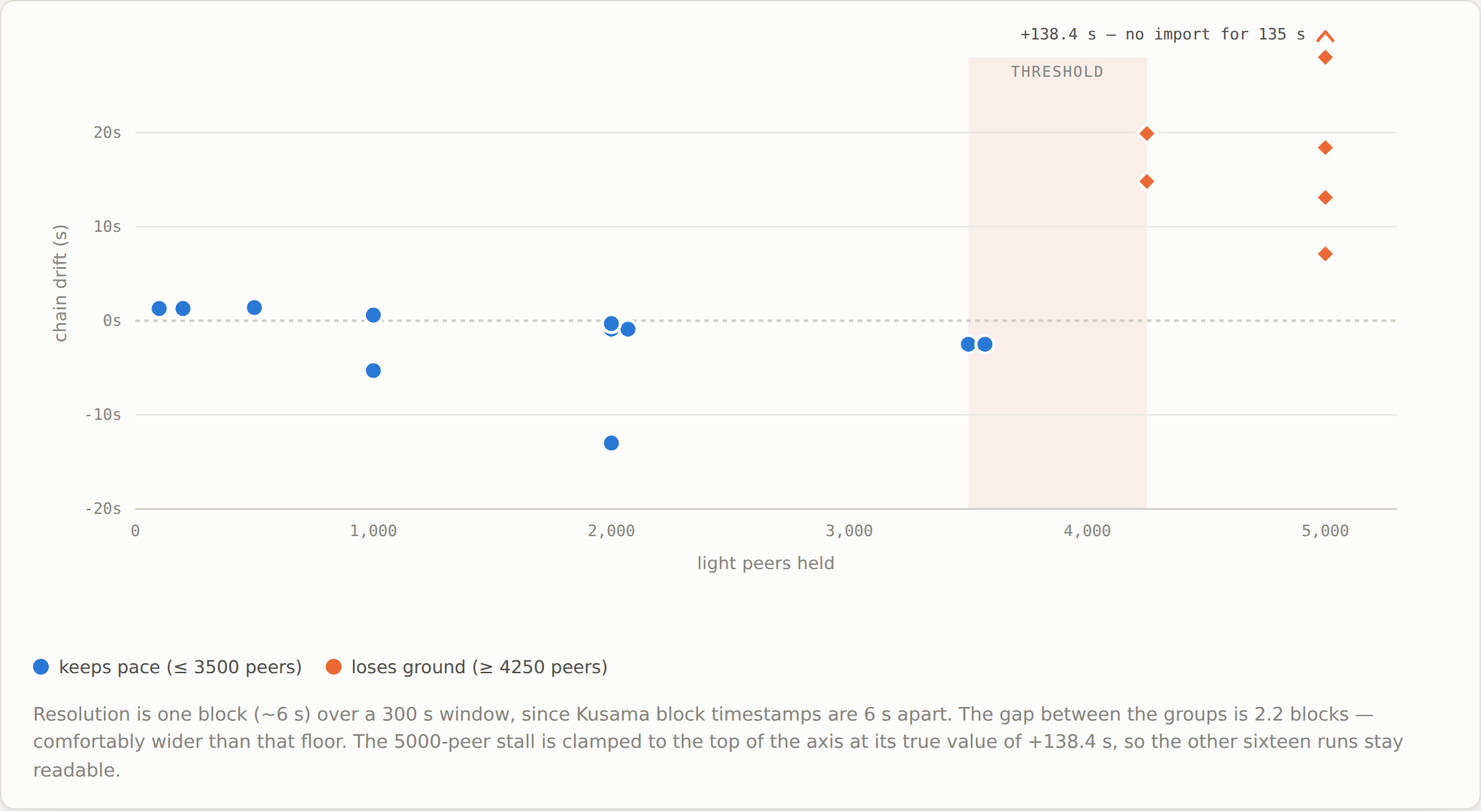
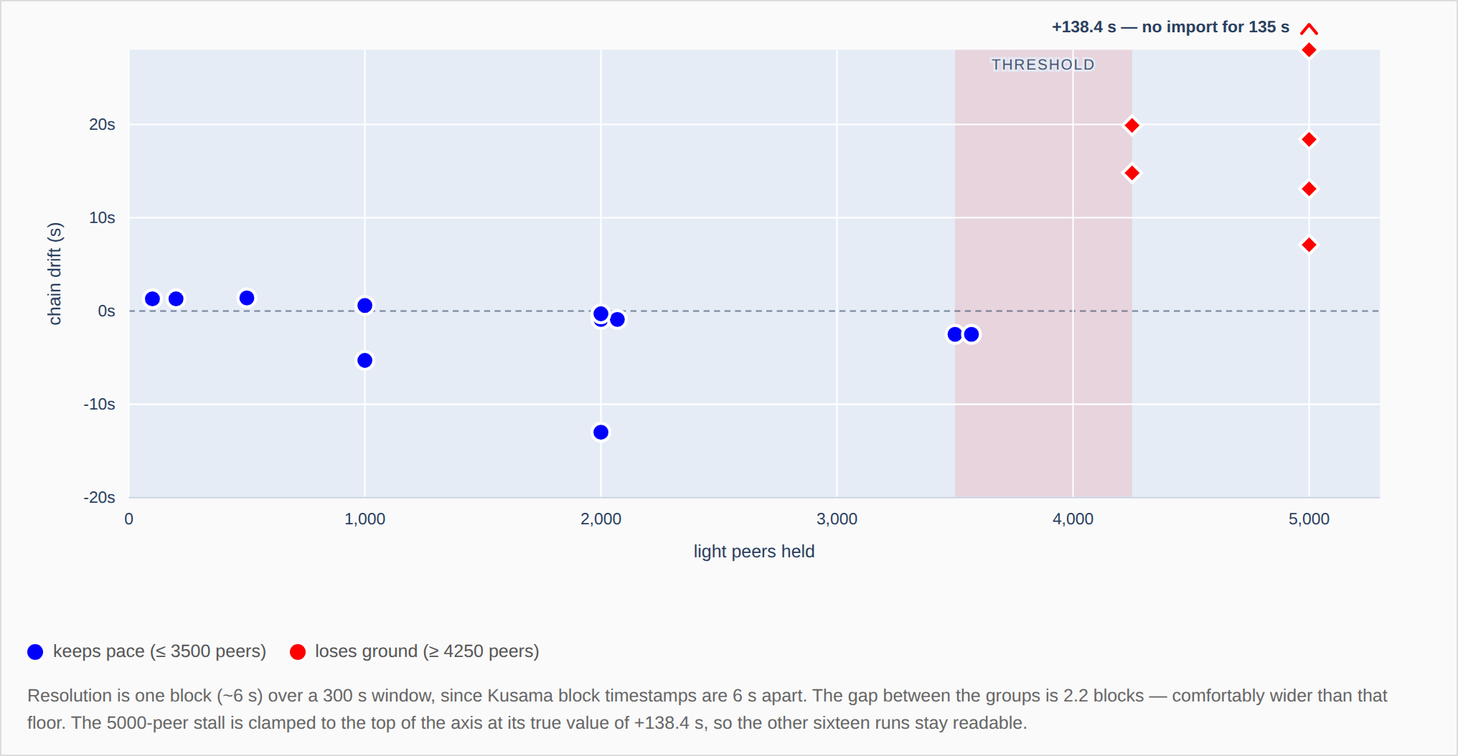
report: 2026-08-09T11:34Z

diff --git a/index.html b/index.html
@@ -4,180 +4,145 @@
 <style>
   :root {
     color-scheme: light;
-    --ground:      #f1f0ec;
-    --surface:     #fcfcfb;
-    --surface-2:   #f7f6f3;
-    --ink:         #0b0b0b;
-    --ink-2:       #52514e;
-    --ink-3:       #86847d;
-    --rule:        #e2e0d9;
-    --rule-firm:   #cfcdc4;
-    --s1:          #2a78d6;
-    --s2:          #eb6834;
-    --s3:          #1baf7a;
-    --band:        rgba(235,104,52,.09);
-    --floor:       rgba(130,128,120,.14);
-    --grid:        #eae8e2;
-    --shadow:      0 1px 2px rgba(0,0,0,.05), 0 8px 24px -16px rgba(0,0,0,.18);
-  }
-  @media (prefers-color-scheme: dark) {
-    :root:where(:not([data-theme="light"])) {
-      color-scheme: dark;
-      --ground:    #121211;
-      --surface:   #1a1a19;
-      --surface-2: #212120;
-      --ink:       #ffffff;
-      --ink-2:     #c3c2b7;
-      --ink-3:     #8a887e;
-      --rule:      #2c2c2a;
-      --rule-firm: #3d3d3a;
-      --s1:        #3987e5;
-      --s2:        #d95926;
-      --s3:        #199e70;
-      --band:      rgba(217,89,38,.13);
-      --floor:     rgba(160,158,148,.14);
-      --grid:      #262625;
-      --shadow:    0 1px 2px rgba(0,0,0,.4), 0 8px 24px -16px rgba(0,0,0,.7);
-    }
-  }
-  :root[data-theme="dark"] {
-    color-scheme: dark;
-    --ground:    #121211;
-    --surface:   #1a1a19;
-    --surface-2: #212120;
-    --ink:       #ffffff;
-    --ink-2:     #c3c2b7;
-    --ink-3:     #8a887e;
-    --rule:      #2c2c2a;
-    --rule-firm: #3d3d3a;
-    --s1:        #3987e5;
-    --s2:        #d95926;
-    --s3:        #199e70;
-    --band:      rgba(217,89,38,.13);
-    --floor:     rgba(160,158,148,.14);
-    --grid:      #262625;
-    --shadow:    0 1px 2px rgba(0,0,0,.4), 0 8px 24px -16px rgba(0,0,0,.7);
+    --ground:      #f5f5f5;
+    --surface:     #ffffff;
+    --surface-2:   #fafafa;
+    --ink:         #333333;
+    --ink-2:       #555555;
+    --ink-3:       #666666;
+    --rule:        #dddddd;
+    --rule-firm:   #C8D4E3;
+    --accent:      #007bff;
+    --accent-dark: #0056b3;
+    --s1:          #0000ff;
+    --s2:          #ff0000;
+    --s3:          #008000;
+    --band:        rgba(255,0,0,.10);
+    --floor:       rgba(42,63,95,.09);
+    --plot:        #E5ECF6;
+    --grid:        #ffffff;
+    --axis:        #2a3f5f;
   }
 
   body {
     margin: 0; background: var(--ground); color: var(--ink);
-    font-family: ui-sans-serif, system-ui, -apple-system, "Segoe UI", Roboto, sans-serif;
-    font-size: 16px; line-height: 1.6;
-    -webkit-font-smoothing: antialiased;
+    font-family: Arial, Helvetica, sans-serif;
+    font-size: 15px; line-height: 1.6;
   }
-  .wrap { max-width: 1080px; margin: 0 auto; padding: 56px 24px 96px; display: flex; flex-direction: column; gap: 44px; }
-  .prose { max-width: 68ch; }
+  .wrap { max-width: 1320px; margin: 20px auto; padding: 24px 32px 48px; background: var(--surface);
+    display: flex; flex-direction: column; gap: 30px; }
+  .prose { max-width: 80ch; }
 
-  h1 { font-size: clamp(28px, 4vw, 40px); line-height: 1.15; letter-spacing: -.022em; font-weight: 640; margin: 0; text-wrap: balance; }
-  h2 { font-size: 21px; letter-spacing: -.012em; font-weight: 640; margin: 0; text-wrap: balance; }
-  h3 { font-size: 15px; letter-spacing: -.006em; font-weight: 620; margin: 0; }
+  h1 { font-size: 28px; line-height: 1.2; font-weight: 700; margin: 0; color: var(--ink);
+    border-bottom: 3px solid var(--accent); padding-bottom: 10px; }
+  h2 { font-size: 20px; font-weight: 700; margin: 0; color: var(--ink-2);
+    border-bottom: 2px solid var(--rule); padding-bottom: 5px; }
+  h3 { font-size: 16px; font-weight: 400; margin: 0; color: var(--axis); }
   p  { margin: 0; color: var(--ink-2); }
-  p strong, li strong { color: var(--ink); font-weight: 620; }
-  a { color: var(--s1); text-underline-offset: 2px; }
+  p strong, li strong { color: var(--ink); font-weight: 700; }
+  a { color: var(--accent); text-decoration: none; }
+  a:hover { text-decoration: underline; }
 
   .eyebrow {
-    font-family: ui-monospace, SFMono-Regular, "SF Mono", Menlo, Consolas, monospace;
-    font-size: 11px; letter-spacing: .13em; text-transform: uppercase;
-    color: var(--ink-3); font-weight: 500;
+    font-size: 11px; letter-spacing: .1em; text-transform: uppercase;
+    color: var(--ink-3); font-weight: 700;
   }
-  .lede { font-size: 18px; line-height: 1.55; color: var(--ink-2); }
+  .lede { font-size: 16px; line-height: 1.55; color: var(--ink-2); }
 
-  section { display: flex; flex-direction: column; gap: 18px; }
+  section { display: flex; flex-direction: column; gap: 14px; }
   .head { display: flex; flex-direction: column; gap: 5px; }
 
   /* ---- verdict ---- */
   .verdict {
-    background: var(--surface); border: 1px solid var(--rule); border-radius: 10px;
-    padding: 22px 24px; display: flex; flex-direction: column; gap: 10px; box-shadow: var(--shadow);
+    background: #e7f3ff; border-left: 4px solid var(--accent);
+    padding: 15px 20px; display: flex; flex-direction: column; gap: 10px;
   }
   .verdict .top { display: flex; align-items: baseline; gap: 14px; flex-wrap: wrap; }
   .hero-num {
-    font-family: ui-monospace, SFMono-Regular, "SF Mono", Menlo, Consolas, monospace;
-    font-size: 46px; line-height: 1; font-weight: 600; letter-spacing: -.03em;
-    font-variant-numeric: tabular-nums; color: var(--s1);
+    font-size: 42px; line-height: 1; font-weight: 700; letter-spacing: -.02em;
+    font-variant-numeric: tabular-nums; color: var(--accent);
   }
 
   /* ---- kpi ---- */
   .kpis { display: grid; grid-template-columns: repeat(auto-fit, minmax(178px, 1fr)); gap: 12px; }
   .kpi {
-    background: var(--surface); border: 1px solid var(--rule); border-radius: 10px;
-    padding: 15px 16px; display: flex; flex-direction: column; gap: 5px;
+    background: var(--surface); border: 1px solid var(--rule);
+    padding: 12px 14px; display: flex; flex-direction: column; gap: 5px;
   }
-  .kpi .k { font-family: ui-monospace, SFMono-Regular, "SF Mono", Menlo, Consolas, monospace;
-    font-size: 10.5px; letter-spacing: .1em; text-transform: uppercase; color: var(--ink-3); }
-  .kpi .v { font-family: ui-monospace, SFMono-Regular, "SF Mono", Menlo, Consolas, monospace;
-    font-size: 25px; font-weight: 600; letter-spacing: -.02em; font-variant-numeric: tabular-nums; line-height: 1.1; }
+  .kpi .k { font-size: 10.5px; letter-spacing: .08em; text-transform: uppercase; color: var(--ink-3); font-weight: 700; }
+  .kpi .v { font-size: 24px; font-weight: 700; font-variant-numeric: tabular-nums; line-height: 1.1; color: var(--accent); }
   .kpi .n { font-size: 12.5px; color: var(--ink-3); line-height: 1.4; }
 
   /* ---- chart cards ---- */
   .card {
-    background: var(--surface); border: 1px solid var(--rule); border-radius: 10px;
-    padding: 20px 22px 16px; display: flex; flex-direction: column; gap: 14px; box-shadow: var(--shadow);
+    background: var(--surface-2); border: 1px solid var(--rule);
+    padding: 15px 18px 12px; display: flex; flex-direction: column; gap: 12px;
   }
   .card-head { display: flex; flex-direction: column; gap: 4px; }
-  .card-note { font-size: 13px; color: var(--ink-3); line-height: 1.5; }
+  .card-note { font-size: 12.5px; color: var(--ink-3); line-height: 1.5; }
   .chart-host { position: relative; }
   svg { display: block; width: 100%; height: auto; overflow: visible; }
   .grid-line { stroke: var(--grid); stroke-width: 1; }
   .axis-line { stroke: var(--rule-firm); stroke-width: 1; }
-  .zero-line { stroke: var(--rule-firm); stroke-width: 1.5; stroke-dasharray: 3 3; }
-  .tick { font-family: ui-monospace, SFMono-Regular, "SF Mono", Menlo, Consolas, monospace;
-    font-size: 10.5px; fill: var(--ink-3); font-variant-numeric: tabular-nums; }
-  .axis-title { font-size: 11.5px; fill: var(--ink-3); letter-spacing: .01em; }
-  .mark-label { font-family: ui-monospace, SFMono-Regular, "SF Mono", Menlo, Consolas, monospace;
-    font-size: 10.5px; fill: var(--ink-2); font-variant-numeric: tabular-nums; font-weight: 500; }
-  .band-label { font-family: ui-monospace, SFMono-Regular, "SF Mono", Menlo, Consolas, monospace;
-    font-size: 10px; fill: var(--ink-3); letter-spacing: .09em; text-transform: uppercase; }
+  .zero-line { stroke: var(--axis); stroke-width: 1; stroke-dasharray: 4 3; opacity: .55; }
+  .tick { font-size: 11px; fill: var(--axis); font-variant-numeric: tabular-nums; }
+  .axis-title { font-size: 12px; fill: var(--axis); }
+  .mark-label { font-size: 11px; fill: var(--axis); font-variant-numeric: tabular-nums; font-weight: 700; }
+  .band-label { font-size: 10px; fill: var(--axis); letter-spacing: .09em; text-transform: uppercase; opacity: .85;
+    paint-order: stroke; stroke: var(--plot); stroke-width: 3px; }
 
   .legend { display: flex; flex-wrap: wrap; gap: 16px; align-items: center; }
   .lg { display: inline-flex; align-items: center; gap: 7px; font-size: 12.5px; color: var(--ink-2); }
   .sw { width: 11px; height: 11px; border-radius: 50%; flex: none; }
-  .sw.sq { border-radius: 2px; width: 14px; height: 4px; }
+  .sw.sq { border-radius: 0; width: 16px; height: 3px; }
+  .sw.dash { background: none !important; border-top: 3px dashed var(--sw-c, #999); height: 0; }
 
   .tip {
     position: absolute; pointer-events: none; opacity: 0; transition: opacity .1s;
-    background: var(--ink); color: var(--ground); padding: 7px 10px; border-radius: 6px;
+    background: #2a3f5f; color: #fff; padding: 7px 10px; border-radius: 4px;
     font-size: 12px; line-height: 1.45; white-space: nowrap; z-index: 5;
-    font-family: ui-monospace, SFMono-Regular, "SF Mono", Menlo, Consolas, monospace;
     font-variant-numeric: tabular-nums; box-shadow: 0 4px 14px rgba(0,0,0,.22);
   }
   .tip.on { opacity: 1; }
-  .tip b { font-weight: 600; }
+  .tip b { font-weight: 700; }
 
   .two { display: grid; grid-template-columns: repeat(auto-fit, minmax(300px, 1fr)); gap: 16px; }
 
-  /* ---- table ---- */
-  details { background: var(--surface); border: 1px solid var(--rule); border-radius: 10px; overflow: hidden; }
-  summary { padding: 15px 20px; cursor: pointer; font-weight: 600; font-size: 14.5px; list-style: none;
-    display: flex; align-items: center; gap: 9px; }
+  /* ---- collapsibles & tables ---- */
+  details { background: var(--surface); }
+  summary { padding: 10px 15px; cursor: pointer; font-weight: 700; font-size: 14px; list-style: none;
+    display: flex; align-items: center; gap: 9px; background: var(--accent); color: #fff; border-radius: 4px;
+    user-select: none; }
+  summary:hover { background: var(--accent-dark); }
   summary::-webkit-details-marker { display: none; }
-  summary::before { content: "›"; font-family: ui-monospace, monospace; font-size: 17px; color: var(--ink-3);
-    transition: transform .15s; display: inline-block; }
+  summary::before { content: "\25B6"; font-size: 11px; transition: transform .15s; display: inline-block; }
   details[open] summary::before { transform: rotate(90deg); }
-  summary:focus-visible { outline: 2px solid var(--s1); outline-offset: -2px; }
-  .table-scroll { overflow-x: auto; border-top: 1px solid var(--rule); }
-  table { border-collapse: collapse; width: 100%; font-size: 13px;
-    font-family: ui-monospace, SFMono-Regular, "SF Mono", Menlo, Consolas, monospace;
-    font-variant-numeric: tabular-nums; }
-  th, td { padding: 8px 14px; text-align: right; white-space: nowrap; border-bottom: 1px solid var(--rule); }
-  th { font-size: 10.5px; letter-spacing: .07em; text-transform: uppercase; color: var(--ink-3);
-    font-weight: 500; position: sticky; top: 0; background: var(--surface-2); }
+  details[open] summary { border-radius: 4px 4px 0 0; }
+  summary:focus-visible { outline: 2px solid var(--accent-dark); outline-offset: -2px; }
+  details > *:not(summary) { border: 1px solid var(--rule); border-top: none; }
+  details > .table-scroll + .card-note { margin-top: 0; }
+  .table-scroll { overflow-x: auto; }
+  table { border-collapse: collapse; width: 100%; font-size: 13px; font-variant-numeric: tabular-nums; }
+  th, td { padding: 8px 12px; text-align: right; white-space: nowrap; border-bottom: 1px solid var(--rule); }
+  th { font-size: 12px; color: #fff; background: var(--accent); font-weight: 700;
+    position: sticky; top: 0; }
   th:first-child, td:first-child { text-align: left; }
+  tbody tr:nth-child(even) { background: #f9f9f9; }
   tbody tr:last-child td { border-bottom: none; }
-  td.flag { color: var(--s2); font-weight: 600; }
+  td.flag { color: #c82333; font-weight: 700; }
   .pill { display: inline-block; padding: 1px 7px; border-radius: 100px; font-size: 10.5px;
-    letter-spacing: .04em; font-weight: 600; }
-  .pill.ok { background: color-mix(in srgb, var(--s1) 15%, transparent); color: var(--s1); }
-  .pill.bad { background: color-mix(in srgb, var(--s2) 17%, transparent); color: var(--s2); }
+    letter-spacing: .04em; font-weight: 700; }
+  .pill.ok { background: #e7f3ff; color: var(--accent-dark); }
+  .pill.bad { background: #fdecea; color: #c82333; }
 
   ul.tight { margin: 0; padding-left: 20px; color: var(--ink-2); display: flex; flex-direction: column; gap: 7px; }
   ul.tight li::marker { color: var(--ink-3); }
 
   code { font-family: ui-monospace, SFMono-Regular, "SF Mono", Menlo, Consolas, monospace;
-    font-size: .9em; background: var(--surface-2); border: 1px solid var(--rule);
-    padding: 1px 5px; border-radius: 4px; }
+    font-size: .9em; background: #f0f0f0; border: 1px solid var(--rule);
+    padding: 1px 5px; border-radius: 3px; }
 
-  footer { border-top: 1px solid var(--rule); padding-top: 22px; font-size: 13px; color: var(--ink-3); }
+  footer { border-top: 1px solid var(--rule); padding-top: 18px; font-size: 13px; color: var(--ink-3); }
 
   @media (prefers-reduced-motion: reduce) { * { transition: none !important; animation: none !important; } }
 </style>
@@ -377,7 +342,7 @@
 </div>
 
 <script>
-const D = {"peerRuns": [{"run": "light-100", "peers": 100, "drift": 1.3, "blocks": 48, "window": 295, "held": 100, "coverage": 100.0, "spread50": 1.3, "refused": 0, "evicted": 0, "rss": 1271, "cpu": 46, "fds": 1408, "finlag_mean": 2.9, "finlag_max": 4}, {"run": "light-200", "peers": 200, "drift": 1.3, "blocks": 49, "window": 295, "held": 200, "coverage": 100.0, "spread50": 2.2, "refused": 0, "evicted": 0, "rss": 1461, "cpu": 50, "fds": 1344, "finlag_mean": 2.9, "finlag_max": 5}, {"run": "light-500", "peers": 500, "drift": 1.4, "blocks": 46, "window": 295, "held": 500, "coverage": 100.0, "spread50": 5.4, "refused": 0, "evicted": 0, "rss": 1568, "cpu": 54, "fds": 1530, "finlag_mean": 2.9, "finlag_max": 4}, {"run": "light-1000-r1", "peers": 1000, "drift": 0.6, "blocks": 49, "window": 301, "held": 1000, "coverage": 100.0, "spread50": 10.0, "refused": 0, "evicted": 0, "rss": 1586, "cpu": 63, "fds": 2111, "finlag_mean": 2.9, "finlag_max": 4}, {"run": "light-1000-r2", "peers": 1000, "drift": -5.3, "blocks": 50, "window": 301, "held": 1000, "coverage": 100.0, "spread50": 10.1, "refused": 0, "evicted": 0, "rss": 1668, "cpu": 63, "fds": 2184, "finlag_mean": 3.0, "finlag_max": 5}, {"run": "light-2000-r1", "peers": 2000, "drift": -0.9, "blocks": 52, "window": 311, "held": 2000, "coverage": 100.0, "spread50": 19.3, "refused": 0, "evicted": 0, "rss": 1806, "cpu": 76, "fds": 3057, "finlag_mean": 3.8, "finlag_max": 5}, {"run": "light-2000-r2", "peers": 2000, "drift": -0.9, "blocks": 49, "window": 311, "held": 2000, "coverage": 100.0, "spread50": 20.0, "refused": 0, "evicted": 0, "rss": 1909, "cpu": 78, "fds": 3753, "finlag_mean": 3.0, "finlag_max": 5}, {"run": "light-2000-r3", "peers": 2000, "drift": -13.0, "blocks": 52, "window": 311, "held": 2000, "coverage": 100.0, "spread50": 20.2, "refused": 0, "evicted": 0, "rss": 1993, "cpu": 78, "fds": 3038, "finlag_mean": 2.9, "finlag_max": 4}, {"run": "light-2000-r4", "peers": 2000, "drift": -0.3, "blocks": 52, "window": 312, "held": 2000, "coverage": 100.0, "spread50": 18.7, "refused": 0, "evicted": 0, "rss": 2836, "cpu": 81, "fds": 3319, "finlag_mean": 3.1, "finlag_max": 5}, {"run": "light-3500-r1", "peers": 3500, "drift": -2.5, "blocks": 55, "window": 327, "held": 3500, "coverage": 100.0, "spread50": 33.0, "refused": 0, "evicted": 0, "rss": 2424, "cpu": 94, "fds": 5675, "finlag_mean": 3.0, "finlag_max": 5}, {"run": "light-3500-r2", "peers": 3500, "drift": -2.5, "blocks": 53, "window": 327, "held": 3500, "coverage": 100.0, "spread50": 32.6, "refused": 0, "evicted": 0, "rss": 2766, "cpu": 99, "fds": 5795, "finlag_mean": 3.3, "finlag_max": 5}, {"run": "light-4250-r1", "peers": 4250, "drift": 14.8, "blocks": 53, "window": 333, "held": 4250, "coverage": 100.0, "spread50": 32.7, "refused": 0, "evicted": 0, "rss": 2636, "cpu": 102, "fds": 5402, "finlag_mean": 1.3, "finlag_max": 3}, {"run": "light-4250-r2", "peers": 4250, "drift": 19.9, "blocks": 49, "window": 338, "held": 4250, "coverage": 100.0, "spread50": 33.1, "refused": 0, "evicted": 0, "rss": 2660, "cpu": 101, "fds": 5553, "finlag_mean": 1.5, "finlag_max": 4}, {"run": "light-5000-r1", "peers": 5000, "drift": 138.4, "blocks": 32, "window": 342, "held": 5000, "coverage": 100.0, "spread50": 38.2, "refused": 0, "evicted": 0, "rss": 2255, "cpu": 104, "fds": 6220, "finlag_mean": 1.1, "finlag_max": 4}, {"run": "light-5000-r2", "peers": 5000, "drift": 18.4, "blocks": 52, "window": 342, "held": 5000, "coverage": 100.0, "spread50": 36.4, "refused": 0, "evicted": 0, "rss": 2422, "cpu": 105, "fds": 6202, "finlag_mean": 1.4, "finlag_max": 3}, {"run": "light-5000-r3", "peers": 5000, "drift": 7.1, "blocks": 53, "window": 343, "held": 5000, "coverage": 100.0, "spread50": 36.4, "refused": 0, "evicted": 0, "rss": 2404, "cpu": 104, "fds": 6190, "finlag_mean": 1.3, "finlag_max": 3}, {"run": "light-5000-r4", "peers": 5000, "drift": 13.1, "blocks": 54, "window": 343, "held": 5000, "coverage": 100.0, "spread50": 34.8, "refused": 0, "evicted": 0, "rss": 2863, "cpu": 111, "fds": 6206, "finlag_mean": 1.8, "finlag_max": 4}], "traces": {"peers-6h": [[0, 0.0], [603, -3.0], [1207, -5.0], [1811, -1.0], [2415, -3.0], [3019, 1.0], [3623, -1.0]], "soak-6h": [[0, 0.0], [603, 3.0], [1206, 6.0], [1809, 3.0], [2412, 6.0], [3015, 3.0], [3618, 6.0], [4221, 3.0], [4824, -0.0], [5427, 3.0], [6030, 0.0], [6633, 3.0], [7237, 7.0], [7840, 4.0], [8443, 7.0], [9046, 4.0], [9649, 7.0], [10252, 4.0], [10855, 1.0], [11458, 4.0], [12061, 1.0], [12664, 4.0], [13267, 1.0], [13870, 4.0], [14474, 8.0], [15077, 5.0], [15680, 8.0], [16283, 5.0], [16886, 2.0], [17489, 5.0], [18092, 2.0], [18696, 0.0], [19300, 4.0], [19904, 8.0], [20507, 5.0], [21111, 3.0]], "soak-12h": [[0, 0.0], [603, 3.0], [1206, 0.0], [1809, 3.0], [2412, -0.0], [3015, -3.0], [3618, 0.0], [4221, -3.0], [4824, 0.0], [5427, 3.0], [6030, 0.0], [6633, 3.0], [7236, 0.0], [7839, 3.0], [8442, 0.0], [9045, -3.0], [9648, 0.0], [10251, -3.0], [10854, 0.0], [11457, -3.0], [12060, 0.0], [12664, 4.0], [13267, 1.0], [13870, 4.0], [14473, 1.0], [15076, -2.0], [15679, 1.0], [16282, -2.0], [16885, 1.0], [17488, 4.0], [18091, -5.0], [18695, -1.0], [19298, 2.0], [19901, 5.0], [20504, 2.0], [21107, -1.0], [21710, 2.0], [22313, -1.0], [22916, 2.0], [23519, -1.0], [24123, -3.0], [24726, -0.0], [25329, 3.0], [25932, -0.0], [26535, 3.0], [27138, -0.0], [27741, 3.0], [28344, 0.0], [28947, -3.0], [29550, -0.0], [30153, -3.0], [30756, 0.0], [31359, -3.0], [31963, 1.0], [32566, 4.0], [33169, 1.0], [33772, 4.0], [34375, 1.0], [34978, -2.0], [35581, 1.0], [36184, -2.0], [36787, 1.0], [37390, -2.0], [37993, 1.0], [38596, -2.0], [39199, 1.0], [39802, 4.0], [40406, 2.0], [41010, 0.0], [41614, -2.0], [42218, 2.0], [42822, 0.0]]}, "rss": {"peers-6h": [[0, 6523], [603, 6728], [1207, 6755], [1811, 6795], [2415, 6845], [3019, 6819], [3623, 6960]], "soak-6h": [[0, 3748], [603, 4101], [1206, 4310], [1809, 4336], [2412, 4452], [3015, 4503], [3618, 4653], [4221, 4788], [4824, 4861], [5427, 4961], [6030, 5034], [6633, 5156], [7237, 5276], [7840, 4815], [8443, 4976], [9046, 5050], [9649, 5156], [10252, 5209], [10855, 5259], [11458, 5391], [12061, 5437], [12664, 5491], [13267, 5559], [13870, 5609], [14474, 5663], [15077, 5701], [15680, 5781], [16283, 5732], [16886, 5841], [17489, 5856], [18092, 5565], [18696, 5120], [19300, 5133], [19904, 5123], [20507, 5070], [21111, 5074]], "soak-12h": [[0, 4805], [603, 5182], [1206, 5342], [1809, 5356], [2412, 5413], [3015, 5491], [3618, 5545], [4221, 5540], [4824, 5622], [5427, 5657], [6030, 5840], [6633, 5897], [7236, 5510], [7839, 5537], [8442, 5645], [9045, 5647], [9648, 5690], [10251, 5828], [10854, 5888], [11457, 5982], [12060, 6042], [12664, 6205], [13267, 6205], [13870, 6264], [14473, 6326], [15076, 6494], [15679, 6500], [16282, 6638], [16885, 6793], [17488, 6666], [18091, 6892], [18695, 6528], [19298, 6512], [19901, 6618], [20504, 6662], [21107, 6698], [21710, 6769], [22313, 6844], [22916, 6793], [23519, 6939], [24123, 6974], [24726, 6987], [25329, 7094], [25932, 7096], [26535, 7116], [27138, 7129], [27741, 7182], [28344, 7262], [28947, 7135], [29550, 6754], [30153, 6745], [30756, 6749], [31359, 6834], [31963, 6890], [32566, 6778], [33169, 6879], [33772, 6908], [34375, 6886], [34978, 7046], [35581, 7008], [36184, 7041], [36787, 7165], [37390, 7153], [37993, 7185], [38596, 7313], [39199, 7352], [39802, 7059], [40406, 6599], [41010, 6663], [41614, 6760], [42218, 6869], [42822, 6910]]}, "cpu": {"peers-6h": [[5, 102], [608, 86], [1212, 86], [1816, 68], [2420, 67], [3024, 77], [3628, 76]], "soak-6h": [[5, 108], [608, 476], [1211, 477], [1814, 464], [2417, 472], [3020, 473], [3623, 493], [4226, 473], [4829, 460], [5433, 470], [6036, 469], [6639, 463], [7242, 476], [7845, 467], [8448, 504], [9051, 468], [9654, 470], [10257, 483], [10860, 486], [11463, 466], [12066, 481], [12670, 472], [13273, 474], [13876, 474], [14479, 476], [15082, 472], [15685, 465], [16288, 492], [16891, 492], [17494, 472], [18097, 63], [18701, 77], [19305, 74], [19909, 88], [20513, 77], [21117, 60]], "soak-12h": [[5, 104], [608, 468], [1211, 472], [1814, 472], [2417, 464], [3020, 476], [3623, 481], [4226, 470], [4829, 465], [5432, 489], [6035, 483], [6638, 477], [7241, 478], [7844, 474], [8447, 473], [9050, 473], [9653, 477], [10256, 465], [10859, 482], [11462, 490], [12066, 470], [12669, 473], [13272, 472], [13875, 469], [14478, 481], [15081, 474], [15684, 466], [16287, 470], [16890, 470], [17493, 481], [18097, 466], [18700, 477], [19303, 476], [19906, 470], [20509, 469], [21112, 498], [21715, 476], [22318, 474], [22921, 468], [23525, 485], [24128, 479], [24731, 476], [25334, 485], [25937, 465], [26540, 471], [27143, 471], [27746, 474], [28349, 484], [28952, 497], [29555, 483], [30158, 487], [30761, 510], [31365, 470], [31968, 463], [32571, 469], [33174, 460], [33777, 469], [34380, 468], [34983, 464], [35586, 460], [36189, 479], [36792, 466], [37395, 475], [37998, 464], [38601, 462], [39204, 458], [39808, 64], [40411, 64], [41015, 75], [41619, 79], [42223, 82], [42827, 52]]}, "mixRuns": [{"run": "rep-base-1", "kind": "base", "i": 1, "drift": 0.0, "cpu": 85}, {"run": "rep-mix-1", "kind": "mix", "i": 1, "drift": 5.7, "cpu": 421}, {"run": "rep-base-2", "kind": "base", "i": 2, "drift": -0.1, "cpu": 88}, {"run": "rep-mix-2", "kind": "mix", "i": 2, "drift": -0.4, "cpu": 423}, {"run": "rep-base-3", "kind": "base", "i": 3, "drift": 0.1, "cpu": 87}, {"run": "rep-mix-3", "kind": "mix", "i": 3, "drift": -0.3, "cpu": 419}, {"run": "rep-base-4", "kind": "base", "i": 4, "drift": 5.9, "cpu": 84}, {"run": "rep-mix-4", "kind": "mix", "i": 4, "drift": -0.3, "cpu": 417}, {"run": "rep-base-5", "kind": "base", "i": 5, "drift": 0.1, "cpu": 86}, {"run": "rep-mix-5", "kind": "mix", "i": 5, "drift": 5.7, "cpu": 417}, {"run": "rep-base-6", "kind": "base", "i": 6, "drift": 6.0, "cpu": 86}, {"run": "rep-mix-6", "kind": "mix", "i": 6, "drift": -6.3, "cpu": 419}], "longRuns": [{"run": "peers-6h", "label": "6 h", "load": "peers only", "drift": -1.0, "hours": 1.13, "cpu": 80, "rss0": 6523, "rssMax": 6963}, {"run": "soak-6h", "label": "6 h", "load": "peers + serving mix", "drift": 1.5, "hours": 6.01, "cpu": 408, "rss0": 3748, "rssMax": 5974}, {"run": "soak-12h", "label": "12 h", "load": "peers + serving mix", "drift": -0.6, "hours": 12.0, "cpu": 442, "rss0": 4805, "rssMax": 7470}]};
+const D = {"peerRuns": [{"run": "light-100", "peers": 100, "drift": 1.3, "blocks": 48, "window": 295, "held": 100, "coverage": 100.0, "spread50": 1.3, "refused": 0, "evicted": 0, "rss": 1271, "cpu": 46, "fds": 1408, "finlag_mean": 2.9, "finlag_max": 4}, {"run": "light-200", "peers": 200, "drift": 1.3, "blocks": 49, "window": 295, "held": 200, "coverage": 100.0, "spread50": 2.2, "refused": 0, "evicted": 0, "rss": 1461, "cpu": 50, "fds": 1344, "finlag_mean": 2.9, "finlag_max": 5}, {"run": "light-500", "peers": 500, "drift": 1.4, "blocks": 46, "window": 295, "held": 500, "coverage": 100.0, "spread50": 5.4, "refused": 0, "evicted": 0, "rss": 1568, "cpu": 54, "fds": 1530, "finlag_mean": 2.9, "finlag_max": 4}, {"run": "light-1000-r1", "peers": 1000, "drift": 0.6, "blocks": 49, "window": 301, "held": 1000, "coverage": 100.0, "spread50": 10.0, "refused": 0, "evicted": 0, "rss": 1586, "cpu": 63, "fds": 2111, "finlag_mean": 2.9, "finlag_max": 4}, {"run": "light-1000-r2", "peers": 1000, "drift": -5.3, "blocks": 50, "window": 301, "held": 1000, "coverage": 100.0, "spread50": 10.1, "refused": 0, "evicted": 0, "rss": 1668, "cpu": 63, "fds": 2184, "finlag_mean": 3.0, "finlag_max": 5}, {"run": "light-2000-r1", "peers": 2000, "drift": -0.9, "blocks": 52, "window": 311, "held": 2000, "coverage": 100.0, "spread50": 19.3, "refused": 0, "evicted": 0, "rss": 1806, "cpu": 76, "fds": 3057, "finlag_mean": 3.8, "finlag_max": 5}, {"run": "light-2000-r2", "peers": 2000, "drift": -0.9, "blocks": 49, "window": 311, "held": 2000, "coverage": 100.0, "spread50": 20.0, "refused": 0, "evicted": 0, "rss": 1909, "cpu": 78, "fds": 3753, "finlag_mean": 3.0, "finlag_max": 5}, {"run": "light-2000-r3", "peers": 2000, "drift": -13.0, "blocks": 52, "window": 311, "held": 2000, "coverage": 100.0, "spread50": 20.2, "refused": 0, "evicted": 0, "rss": 1993, "cpu": 78, "fds": 3038, "finlag_mean": 2.9, "finlag_max": 4}, {"run": "light-2000-r4", "peers": 2000, "drift": -0.3, "blocks": 52, "window": 312, "held": 2000, "coverage": 100.0, "spread50": 18.7, "refused": 0, "evicted": 0, "rss": 2836, "cpu": 81, "fds": 3319, "finlag_mean": 3.1, "finlag_max": 5}, {"run": "light-3500-r1", "peers": 3500, "drift": -2.5, "blocks": 55, "window": 327, "held": 3500, "coverage": 100.0, "spread50": 33.0, "refused": 0, "evicted": 0, "rss": 2424, "cpu": 94, "fds": 5675, "finlag_mean": 3.0, "finlag_max": 5}, {"run": "light-3500-r2", "peers": 3500, "drift": -2.5, "blocks": 53, "window": 327, "held": 3500, "coverage": 100.0, "spread50": 32.6, "refused": 0, "evicted": 0, "rss": 2766, "cpu": 99, "fds": 5795, "finlag_mean": 3.3, "finlag_max": 5}, {"run": "light-4250-r1", "peers": 4250, "drift": 14.8, "blocks": 53, "window": 333, "held": 4250, "coverage": 100.0, "spread50": 32.7, "refused": 0, "evicted": 0, "rss": 2636, "cpu": 102, "fds": 5402, "finlag_mean": 1.3, "finlag_max": 3}, {"run": "light-4250-r2", "peers": 4250, "drift": 19.9, "blocks": 49, "window": 338, "held": 4250, "coverage": 100.0, "spread50": 33.1, "refused": 0, "evicted": 0, "rss": 2660, "cpu": 101, "fds": 5553, "finlag_mean": 1.5, "finlag_max": 4}, {"run": "light-5000-r1", "peers": 5000, "drift": 138.4, "blocks": 32, "window": 342, "held": 5000, "coverage": 100.0, "spread50": 38.2, "refused": 0, "evicted": 0, "rss": 2255, "cpu": 104, "fds": 6220, "finlag_mean": 1.1, "finlag_max": 4}, {"run": "light-5000-r2", "peers": 5000, "drift": 18.4, "blocks": 52, "window": 342, "held": 5000, "coverage": 100.0, "spread50": 36.4, "refused": 0, "evicted": 0, "rss": 2422, "cpu": 105, "fds": 6202, "finlag_mean": 1.4, "finlag_max": 3}, {"run": "light-5000-r3", "peers": 5000, "drift": 7.1, "blocks": 53, "window": 343, "held": 5000, "coverage": 100.0, "spread50": 36.4, "refused": 0, "evicted": 0, "rss": 2404, "cpu": 104, "fds": 6190, "finlag_mean": 1.3, "finlag_max": 3}, {"run": "light-5000-r4", "peers": 5000, "drift": 13.1, "blocks": 54, "window": 343, "held": 5000, "coverage": 100.0, "spread50": 34.8, "refused": 0, "evicted": 0, "rss": 2863, "cpu": 111, "fds": 6206, "finlag_mean": 1.8, "finlag_max": 4}], "traces": {"peers-6h": [[0, 0.0], [603, -3.0], [1207, -5.0], [1811, -1.0], [2415, -3.0], [3019, 1.0], [3623, -1.0], [4227, 3.0], [4831, 1.0]], "soak-6h": [[0, 0.0], [603, 3.0], [1206, 6.0], [1809, 3.0], [2412, 6.0], [3015, 3.0], [3618, 6.0], [4221, 3.0], [4824, -0.0], [5427, 3.0], [6030, 0.0], [6633, 3.0], [7237, 7.0], [7840, 4.0], [8443, 7.0], [9046, 4.0], [9649, 7.0], [10252, 4.0], [10855, 1.0], [11458, 4.0], [12061, 1.0], [12664, 4.0], [13267, 1.0], [13870, 4.0], [14474, 8.0], [15077, 5.0], [15680, 8.0], [16283, 5.0], [16886, 2.0], [17489, 5.0], [18092, 2.0], [18696, 0.0], [19300, 4.0], [19904, 8.0], [20507, 5.0], [21111, 3.0]], "soak-12h": [[0, 0.0], [603, 3.0], [1206, 0.0], [1809, 3.0], [2412, -0.0], [3015, -3.0], [3618, 0.0], [4221, -3.0], [4824, 0.0], [5427, 3.0], [6030, 0.0], [6633, 3.0], [7236, 0.0], [7839, 3.0], [8442, 0.0], [9045, -3.0], [9648, 0.0], [10251, -3.0], [10854, 0.0], [11457, -3.0], [12060, 0.0], [12664, 4.0], [13267, 1.0], [13870, 4.0], [14473, 1.0], [15076, -2.0], [15679, 1.0], [16282, -2.0], [16885, 1.0], [17488, 4.0], [18091, -5.0], [18695, -1.0], [19298, 2.0], [19901, 5.0], [20504, 2.0], [21107, -1.0], [21710, 2.0], [22313, -1.0], [22916, 2.0], [23519, -1.0], [24123, -3.0], [24726, -0.0], [25329, 3.0], [25932, -0.0], [26535, 3.0], [27138, -0.0], [27741, 3.0], [28344, 0.0], [28947, -3.0], [29550, -0.0], [30153, -3.0], [30756, 0.0], [31359, -3.0], [31963, 1.0], [32566, 4.0], [33169, 1.0], [33772, 4.0], [34375, 1.0], [34978, -2.0], [35581, 1.0], [36184, -2.0], [36787, 1.0], [37390, -2.0], [37993, 1.0], [38596, -2.0], [39199, 1.0], [39802, 4.0], [40406, 2.0], [41010, 0.0], [41614, -2.0], [42218, 2.0], [42822, 0.0]]}, "rss": {"peers-6h": [[0, 6523], [603, 6728], [1207, 6755], [1811, 6795], [2415, 6845], [3019, 6819], [3623, 6960], [4227, 6896], [4831, 6934]], "soak-6h": [[0, 3748], [603, 4101], [1206, 4310], [1809, 4336], [2412, 4452], [3015, 4503], [3618, 4653], [4221, 4788], [4824, 4861], [5427, 4961], [6030, 5034], [6633, 5156], [7237, 5276], [7840, 4815], [8443, 4976], [9046, 5050], [9649, 5156], [10252, 5209], [10855, 5259], [11458, 5391], [12061, 5437], [12664, 5491], [13267, 5559], [13870, 5609], [14474, 5663], [15077, 5701], [15680, 5781], [16283, 5732], [16886, 5841], [17489, 5856], [18092, 5565], [18696, 5120], [19300, 5133], [19904, 5123], [20507, 5070], [21111, 5074]], "soak-12h": [[0, 4805], [603, 5182], [1206, 5342], [1809, 5356], [2412, 5413], [3015, 5491], [3618, 5545], [4221, 5540], [4824, 5622], [5427, 5657], [6030, 5840], [6633, 5897], [7236, 5510], [7839, 5537], [8442, 5645], [9045, 5647], [9648, 5690], [10251, 5828], [10854, 5888], [11457, 5982], [12060, 6042], [12664, 6205], [13267, 6205], [13870, 6264], [14473, 6326], [15076, 6494], [15679, 6500], [16282, 6638], [16885, 6793], [17488, 6666], [18091, 6892], [18695, 6528], [19298, 6512], [19901, 6618], [20504, 6662], [21107, 6698], [21710, 6769], [22313, 6844], [22916, 6793], [23519, 6939], [24123, 6974], [24726, 6987], [25329, 7094], [25932, 7096], [26535, 7116], [27138, 7129], [27741, 7182], [28344, 7262], [28947, 7135], [29550, 6754], [30153, 6745], [30756, 6749], [31359, 6834], [31963, 6890], [32566, 6778], [33169, 6879], [33772, 6908], [34375, 6886], [34978, 7046], [35581, 7008], [36184, 7041], [36787, 7165], [37390, 7153], [37993, 7185], [38596, 7313], [39199, 7352], [39802, 7059], [40406, 6599], [41010, 6663], [41614, 6760], [42218, 6869], [42822, 6910]]}, "cpu": {"peers-6h": [[5, 102], [608, 86], [1212, 86], [1816, 68], [2420, 67], [3024, 77], [3628, 76], [4232, 106], [4836, 73]], "soak-6h": [[5, 108], [608, 476], [1211, 477], [1814, 464], [2417, 472], [3020, 473], [3623, 493], [4226, 473], [4829, 460], [5433, 470], [6036, 469], [6639, 463], [7242, 476], [7845, 467], [8448, 504], [9051, 468], [9654, 470], [10257, 483], [10860, 486], [11463, 466], [12066, 481], [12670, 472], [13273, 474], [13876, 474], [14479, 476], [15082, 472], [15685, 465], [16288, 492], [16891, 492], [17494, 472], [18097, 63], [18701, 77], [19305, 74], [19909, 88], [20513, 77], [21117, 60]], "soak-12h": [[5, 104], [608, 468], [1211, 472], [1814, 472], [2417, 464], [3020, 476], [3623, 481], [4226, 470], [4829, 465], [5432, 489], [6035, 483], [6638, 477], [7241, 478], [7844, 474], [8447, 473], [9050, 473], [9653, 477], [10256, 465], [10859, 482], [11462, 490], [12066, 470], [12669, 473], [13272, 472], [13875, 469], [14478, 481], [15081, 474], [15684, 466], [16287, 470], [16890, 470], [17493, 481], [18097, 466], [18700, 477], [19303, 476], [19906, 470], [20509, 469], [21112, 498], [21715, 476], [22318, 474], [22921, 468], [23525, 485], [24128, 479], [24731, 476], [25334, 485], [25937, 465], [26540, 471], [27143, 471], [27746, 474], [28349, 484], [28952, 497], [29555, 483], [30158, 487], [30761, 510], [31365, 470], [31968, 463], [32571, 469], [33174, 460], [33777, 469], [34380, 468], [34983, 464], [35586, 460], [36189, 479], [36792, 466], [37395, 475], [37998, 464], [38601, 462], [39204, 458], [39808, 64], [40411, 64], [41015, 75], [41619, 79], [42223, 82], [42827, 52]]}, "mixRuns": [{"run": "rep-base-1", "kind": "base", "i": 1, "drift": 0.0, "cpu": 85}, {"run": "rep-mix-1", "kind": "mix", "i": 1, "drift": 5.7, "cpu": 421}, {"run": "rep-base-2", "kind": "base", "i": 2, "drift": -0.1, "cpu": 88}, {"run": "rep-mix-2", "kind": "mix", "i": 2, "drift": -0.4, "cpu": 423}, {"run": "rep-base-3", "kind": "base", "i": 3, "drift": 0.1, "cpu": 87}, {"run": "rep-mix-3", "kind": "mix", "i": 3, "drift": -0.3, "cpu": 419}, {"run": "rep-base-4", "kind": "base", "i": 4, "drift": 5.9, "cpu": 84}, {"run": "rep-mix-4", "kind": "mix", "i": 4, "drift": -0.3, "cpu": 417}, {"run": "rep-base-5", "kind": "base", "i": 5, "drift": 0.1, "cpu": 86}, {"run": "rep-mix-5", "kind": "mix", "i": 5, "drift": 5.7, "cpu": 417}, {"run": "rep-base-6", "kind": "base", "i": 6, "drift": 6.0, "cpu": 86}, {"run": "rep-mix-6", "kind": "mix", "i": 6, "drift": -6.3, "cpu": 419}], "longRuns": [{"run": "peers-6h", "label": "6 h", "load": "peers only", "drift": -1.0, "hours": 1.39, "cpu": 80, "rss0": 6523, "rssMax": 7038}, {"run": "soak-6h", "label": "6 h", "load": "peers + serving mix", "drift": 1.5, "hours": 6.01, "cpu": 408, "rss0": 3748, "rssMax": 5974}, {"run": "soak-12h", "label": "12 h", "load": "peers + serving mix", "drift": -0.6, "hours": 12.0, "cpu": 442, "rss0": 4805, "rssMax": 7470}]};
 
 const el = (t, a) => { const n = document.createElementNS("http://www.w3.org/2000/svg", t);
   for (const k in a) n.setAttribute(k, a[k]); return n; };
@@ -391,12 +356,15 @@ function ticks(lo, hi, n) {
 }
 
 function frame(svg, b, xt, yt, xl, yl, xf, yf) {
+  // plotly-style plot area: tinted background under everything, white grid over it
+  svg.insertBefore(el("rect", { x: b.l, y: b.t, width: b.w, height: b.h, style: "fill:var(--plot)" }), svg.firstChild);
   yt.forEach(v => {
     svg.appendChild(el("line", { x1: b.l, x2: b.l + b.w, y1: b.y(v), y2: b.y(v), class: v === 0 ? "zero-line" : "grid-line" }));
     const t = el("text", { x: b.l - 9, y: b.y(v) + 3.5, class: "tick", "text-anchor": "end" });
     t.textContent = yf(v); svg.appendChild(t);
   });
   xt.forEach(v => {
+    svg.appendChild(el("line", { x1: b.x(v), x2: b.x(v), y1: b.t, y2: b.t + b.h, class: "grid-line" }));
     const t = el("text", { x: b.x(v), y: b.t + b.h + 18, class: "tick", "text-anchor": "middle" });
     t.textContent = xf(v); svg.appendChild(t);
   });
@@ -426,7 +394,9 @@ function legend(id, items) {
   const box = document.getElementById(id); box.innerHTML = "";
   items.forEach(it => {
     const s = document.createElement("span"); s.className = "lg";
-    s.innerHTML = `<span class="sw ${it.bar ? "sq" : ""}" style="background:${it.c}"></span>${it.t}`;
+    s.innerHTML = it.dash
+      ? `<span class="sw dash" style="--sw-c:${it.c}"></span>${it.t}`
+      : `<span class="sw ${it.bar ? "sq" : ""}" style="background:${it.c}"></span>${it.t}`;
     box.appendChild(s);
   });
 }
@@ -498,7 +468,7 @@ function costChart(svgId, tipId, key, unit, yl) {
   frame(svg, b, [0, 2000, 4000], ticks(ymin, ymax, 4), "light peers held", yl,
     v => v ? v / 1000 + "k" : "0", v => v);
   D.peerRuns.forEach(r => {
-    const c = el("circle", { cx: b.x(r.peers), cy: b.y(r[key]), r: 5, style: `fill:var(--s3);stroke:var(--surface)`, "stroke-width": 2 });
+    const c = el("circle", { cx: b.x(r.peers), cy: b.y(r[key]), r: 5, style: `fill:var(--s1);stroke:var(--surface)`, "stroke-width": 2 });
     svg.appendChild(c);
     hook(host, tip, c, `<b>${r.run}</b><br>${r.peers.toLocaleString()} peers · ${r[key]}${unit}`);
   });
@@ -510,7 +480,7 @@ function costChart(svgId, tipId, key, unit, yl) {
   const b = { l: 68, t: 18, w: 838, h: 224 };
   const series = [
     { k: "peers-6h", t: "6 h · 2000 peers only", c: "var(--s1)" },
-    { k: "soak-6h", t: "6 h · 2000 peers + serving mix", c: "var(--s2)" },
+    { k: "soak-6h", t: "6 h · 2000 peers + serving mix", c: "var(--s2)", dash: "7 4" },
     { k: "soak-12h", t: "12 h · 2000 peers + serving mix", c: "var(--s3)" },
   ].filter(s => (D.traces[s.k] || []).length > 1);
   const all = series.flatMap(s => D.traces[s.k]);
@@ -526,7 +496,8 @@ function costChart(svgId, tipId, key, unit, yl) {
   series.forEach(s => {
     const pts = D.traces[s.k];
     svg.appendChild(el("path", { d: pts.map((p, i) => (i ? "L" : "M") + b.x(p[0]) + "," + b.y(p[1])).join(" "),
-      style: `fill:none;stroke:${s.c}`, "stroke-width": 2, "stroke-linejoin": "round", "stroke-linecap": "round" }));
+      style: `fill:none;stroke:${s.c}` + (s.dash ? `;stroke-dasharray:${s.dash}` : ""),
+      "stroke-width": 2, "stroke-linejoin": "round", "stroke-linecap": "round" }));
     const last = pts[pts.length - 1];
     svg.appendChild(el("circle", { cx: b.x(last[0]), cy: b.y(last[1]), r: 4.5, style: `fill:${s.c};stroke:var(--surface)`, "stroke-width": 2 }));
     pts.forEach(p => {
@@ -535,7 +506,7 @@ function costChart(svgId, tipId, key, unit, yl) {
       hook(host, tip, h, `<b>${s.t}</b><br>${(p[0] / 3600).toFixed(1)} h · ${fmt(p[1])} s`);
     });
   });
-  legend("l-long", series.map(s => ({ c: s.c, t: s.t, bar: true })));
+  legend("l-long", series.map(s => ({ c: s.c, t: s.t, bar: !s.dash, dash: !!s.dash })));
 
   document.getElementById("longkpis").innerHTML = D.longRuns.filter(l => l.drift !== null).map(l =>
     `<div class="kpi"><div class="k">${l.label} · ${l.load}</div><div class="v">${fmt(l.drift)} s</div>
@@ -547,7 +518,7 @@ function costChart(svgId, tipId, key, unit, yl) {
   const svg = document.getElementById("c-rsstrace"), host = svg.parentElement, tip = document.getElementById("t-rsstrace");
   const series = [
     { k: "peers-6h", t: "6 h · 2000 peers only", c: "var(--s1)" },
-    { k: "soak-6h", t: "6 h · 2000 peers + serving mix", c: "var(--s2)" },
+    { k: "soak-6h", t: "6 h · 2000 peers + serving mix", c: "var(--s2)", dash: "7 4" },
     { k: "soak-12h", t: "12 h · 2000 peers + serving mix", c: "var(--s3)" },
   ].filter(s => (D.rss[s.k] || []).length > 1)
    .map(s => ({ ...s, pts: D.rss[s.k].map(p => [p[0], p[1] - D.rss[s.k][0][1]]) }));
@@ -562,7 +533,8 @@ function costChart(svgId, tipId, key, unit, yl) {
     v => (v / 3600).toFixed(0) + "h", v => fmt(v, 0));
   series.forEach(s => {
     svg.appendChild(el("path", { d: s.pts.map((p, i) => (i ? "L" : "M") + b.x(p[0]) + "," + b.y(p[1])).join(" "),
-      style: `fill:none;stroke:${s.c}`, "stroke-width": 2, "stroke-linejoin": "round", "stroke-linecap": "round" }));
+      style: `fill:none;stroke:${s.c}` + (s.dash ? `;stroke-dasharray:${s.dash}` : ""),
+      "stroke-width": 2, "stroke-linejoin": "round", "stroke-linecap": "round" }));
     const last = s.pts[s.pts.length - 1];
     svg.appendChild(el("circle", { cx: b.x(last[0]), cy: b.y(last[1]), r: 4.5, style: `fill:${s.c};stroke:var(--surface)`, "stroke-width": 2 }));
     const t = el("text", { x: b.x(last[0]) - 8, y: b.y(last[1]) - 9, class: "mark-label", "text-anchor": "end" });
@@ -573,7 +545,7 @@ function costChart(svgId, tipId, key, unit, yl) {
       hook(host, tip, h, `<b>${s.t}</b><br>${(p[0] / 3600).toFixed(1)} h · ${fmt(p[1], 0)} MB since start`);
     });
   });
-  legend("l-rsstrace", series.map(s => ({ c: s.c, t: s.t, bar: true })));
+  legend("l-rsstrace", series.map(s => ({ c: s.c, t: s.t, bar: !s.dash, dash: !!s.dash })));
 })();
 
 /* ---------- 4. mix ---------- */
@@ -586,7 +558,7 @@ function costChart(svgId, tipId, key, unit, yl) {
   const slot = b.w / 6;
   svg.appendChild(el("rect", { x: b.l, y: b.y(6), width: b.w, height: b.y(-6) - b.y(6),
     style: "fill:var(--floor)" }));
-  const fl = el("text", { x: b.l + 9, y: b.y(6) + 13, class: "band-label" });
+  const fl = el("text", { x: b.l + 9, y: b.y(-6) - 7, class: "band-label" });
   fl.textContent = "±1 block — measurement floor"; svg.appendChild(fl);
   frame(svg, b, [], ticks(-lim, lim, 4), "run pair (alternating, in order)", "chain drift (s)",
     v => v, v => fmt(v, 0));
